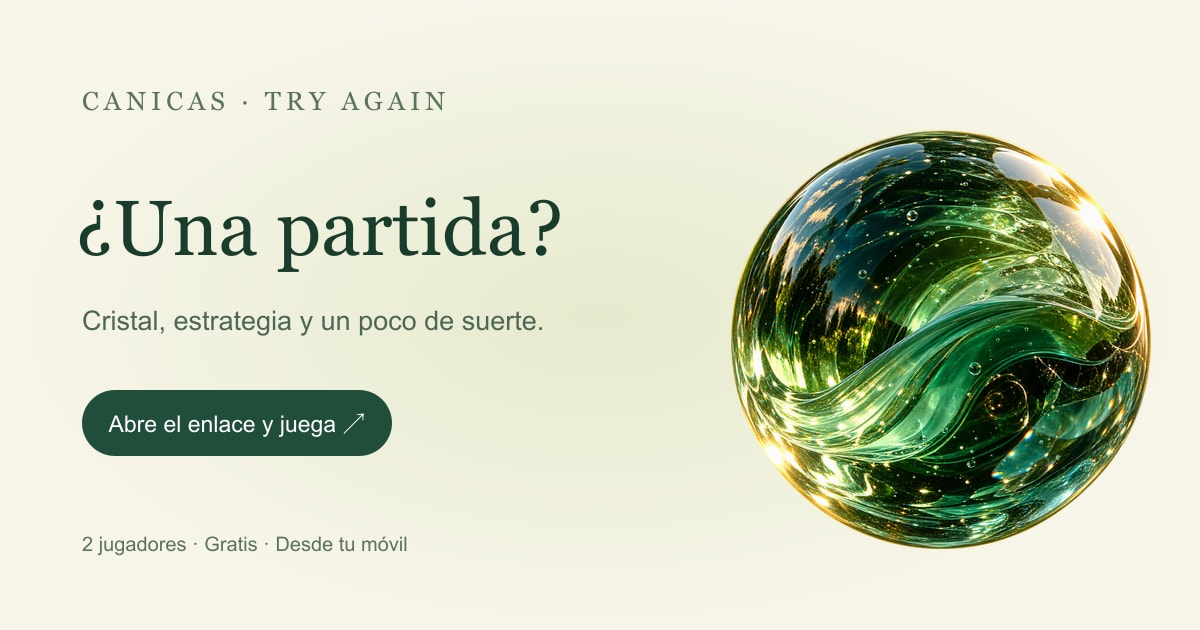
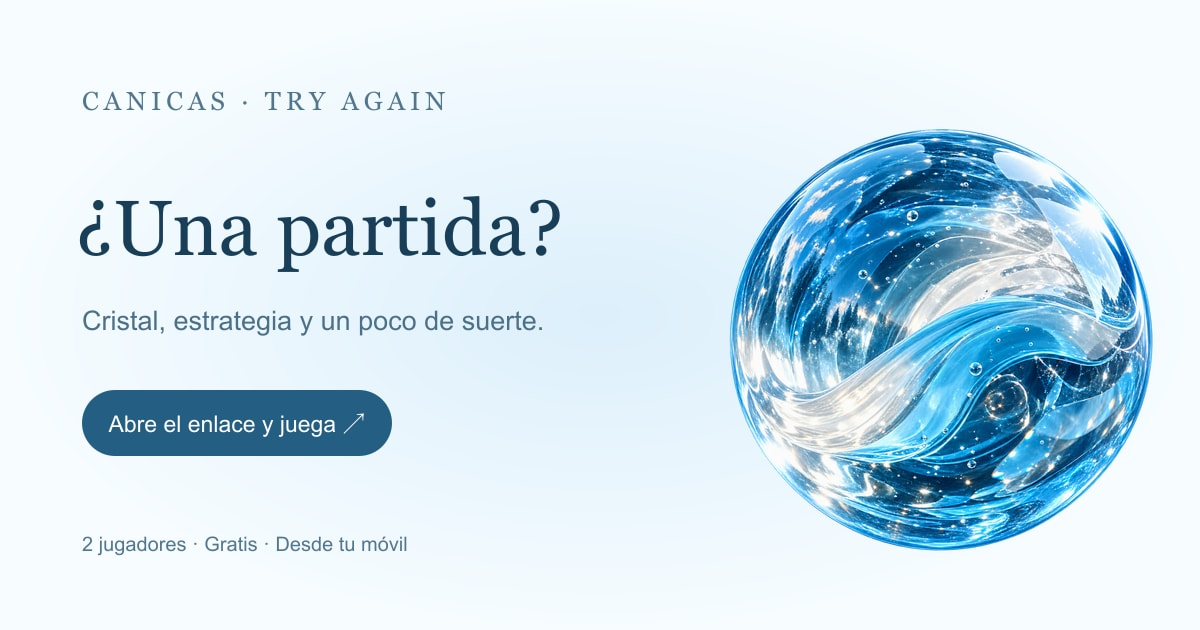
feat: unifica la canica general celeste y blanca de La Línea

diff --git a/src/features/game/components/BoardOverview.tsx b/src/features/game/components/BoardOverview.tsx
@@ -2,12 +2,14 @@
 
 import { useEffect, useRef } from 'react';
 import type { GameState } from '../types';
+import { useAppearance } from '@/features/appearance/AppearanceProvider';
 
 type Point={x:number;y:number};
 type Props={game:GameState;width:number;height:number;world:{width:number;height:number};point:(row:number,col:number)=>Point;onFocus:(point:Point)=>void;selection?:{rowIndex:number;startIndex:number;endIndex:number}|null;radius?:number};
 /** One small, static canvas replaces thousands of interactive marbles while fitting the table. */
 export function BoardOverview({game,width,height,world,point,onFocus,selection,radius=.33}:Props):React.ReactElement {
   const canvas=useRef<HTMLCanvasElement>(null);
+  const {season,theme}=useAppearance();
   const layout=useRef({scale:1,x:0,y:0});
   useEffect(()=>{
     const element=canvas.current;if(!element)return;
@@ -18,17 +20,18 @@ export function BoardOverview({game,width,height,world,point,onFocus,selection,r
     const scale=Math.min((width-24)/world.width,(height-44)/world.height);
     const x=(width-world.width*scale)/2,y=(height-24-world.height*scale)/2;
     layout.current={scale,x,y};
-    const colors=['#438766','#408ba5','#a58d55','#b6764b'];
+    const colors=season==='none'?['#73bfe5','#c4e7f4','#f0faff','#8bd0ee']:['#438766','#408ba5','#a58d55','#b6764b'];
     for(let row=0;row<game.rows.length;row++)for(let col=0;col<game.rows[row].length;col++) {
       const p=point(row,col),px=x+p.x*scale,py=y+p.y*scale,r=Math.max(.35,scale*radius);
       const selected=selection?.rowIndex===row&&col>=selection.startIndex&&col<=selection.endIndex;
       ctx.globalAlpha=game.rows[row][col]?1:.16;
       ctx.fillStyle=selected?'#2c9db7':colors[(row+col)%colors.length];
       ctx.beginPath();ctx.arc(px,py,r,0,Math.PI*2);ctx.fill();
+      if(season==='none'&&game.rows[row][col]&&r>1){ctx.strokeStyle=theme==='light'?'#347a9b99':'#def7ff88';ctx.lineWidth=.5;ctx.stroke();}
       if(game.rows[row][col]&&r>2){ctx.globalAlpha=.45;ctx.fillStyle='#fffce5';ctx.beginPath();ctx.arc(px-r*.25,py-r*.3,r*.3,0,Math.PI*2);ctx.fill();}
     }
     ctx.globalAlpha=1;
-  },[game.rows,width,height,world,point,selection,radius]);
+  },[game.rows,width,height,world,point,selection,radius,season,theme]);
   return <button type="button" className="board-overview" style={{height,width}} aria-label={`Vista general de ${game.numRows} filas. Toca una zona para acercar y elegir canicas.`} onClick={event=>{
     const rect=event.currentTarget.getBoundingClientRect(),{scale,x,y}=layout.current;
     onFocus(event.detail===0?{x:world.width/2,y:world.height/2}:{x:Math.max(0,Math.min(world.width,(event.clientX-rect.left-x)/scale)),y:Math.max(0,Math.min(world.height,(event.clientY-rect.top-y)/scale))});

diff --git a/src/app/glass.css b/src/app/glass.css
@@ -1,16 +1,13 @@
 /* Pre-rendered optical glass: identical paint cost on mobile, no live refraction shader. */
 :root{--glass-tint:transparent}
-html[data-season=halloween]{--glass-tint:#c18d59}
-html[data-season=summer]{--glass-tint:#61b7c2}
-html[data-season=christmas]{--glass-tint:#dce2d0}
-html[data-season=birthday]{--glass-tint:#c29cae}
+html[data-season=halloween]{--glass-image:var(--glass-event-image);--glass-tint:#c18d59}
+html[data-season=summer]{--glass-image:var(--glass-event-image);--glass-tint:#61b7c2}
+html[data-season=christmas]{--glass-image:var(--glass-event-image);--glass-tint:#dce2d0}
+html[data-season=birthday]{--glass-image:var(--glass-event-image);--glass-tint:#c29cae}
 .pocket-app .pocket-marble,.canicas-shell .preview-marble,.appearance-preview-orb{
   background-color:transparent;background-image:linear-gradient(var(--glass-tint),var(--glass-tint)),var(--glass-image);background-blend-mode:color,normal;background-size:100% 100%,107% 107%;background-position:center;background-repeat:no-repeat;
   box-shadow:inset 0 0 0 .6px #fff7,0 5px 8px #0006,0 8px 12px -7px #e5dba65c;
 }
-html[data-season=none] .marble-target:nth-child(3n+2) .pocket-marble{--glass-tint:#73b9c6}
-html[data-season=none] .marble-target:nth-child(5n+3) .pocket-marble{--glass-tint:#d5d4c4}
-html[data-season=none] .marble-target:nth-child(7n+4) .pocket-marble{--glass-tint:#c79e6d}
 .pocket-app .pocket-marble::before,.canicas-shell .preview-marble::before{inset:11% 12% 62% 55%;background:linear-gradient(140deg,#fff7,#fff0);opacity:.35}
 .pocket-app .orb-ribbon{opacity:.13;mix-blend-mode:screen}
 .pocket-app .marble-target.is-selected .pocket-marble,.canicas-shell .preview-marble.is-selected{

diff --git a/src/features/appearance/worlds.ts b/src/features/appearance/worlds.ts
@@ -25,7 +25,7 @@ export const WORLDS = {
     motifs: ["none", "none"], dice: "none", magic: [],
     light: ["#e5efe4", "#cadfce", "#a0c2af", "#789c80", "#a4c678", "#9c8467", "#c7ae80", "#786d60", "#fff0ba"],
     dark: ["#101e24", "#23383c", "#334f4c", "#3a5b48", "#809d59", "#443c32", "#7d7151", "#4c5148", "#d6e4ac"],
-    material: {"orb":["#f1fffa","#88bfc1","#244c6670","#132b3e","#79c6bc","#e3e9c2","#031a26","#7ab9cc26","#10281f"],"lightOrb":["#fff","#c4ddd0","#7fa496","#305d59","#8dc0a6","#ecf5d8","#2c615b","#326f5520","#10281f"],"die":["#d1dabd","#adc5a0","#354d39","#102519","#080c0a","#e7ee55","#c8e350","#51301d"],"ui":{"dark":["#08090b","#101411","#151c17","#e7ee55","#182008"],"light":["#f4f5ef","#fbfcf6","#e5eadf","#bfcc35","#182008"]}},
+    material: {"orb":["#fff","#83c9ed","#388fc0","#17445f","#d7f3ff","#fff","#10314b","#83d1f12b","#153d56"],"lightOrb":["#fff","#b4e2f7","#68b5dc","#28688d","#e5f8ff","#fff","#315f7b","#76bee524","#153d56"],"die":["#d1dabd","#adc5a0","#354d39","#102519","#080c0a","#e7ee55","#c8e350","#51301d"],"ui":{"dark":["#08090b","#101411","#151c17","#e7ee55","#182008"],"light":["#f4f5ef","#fbfcf6","#e5eadf","#bfcc35","#182008"]}},
   },
   halloween: {
     label: "Halloween", description: "Islas embrujadas, una mansión y niebla de medianoche.", caption: "Truco o trato", landscape: "haunted",

diff --git a/src/app/club.css b/src/app/club.css
@@ -504,7 +504,7 @@ body {
 .canicas-brand:focus-visible {outline:2px solid var(--app-ink);outline-offset:8px;border-radius:8px;}
 .canicas-brand-mark {position:relative;display:block;width:50px;height:52px;flex-shrink:0;}
 .canicas-brand-mark>img {position:absolute;top:0;left:0;width:46px;height:46px;filter:drop-shadow(0 4px 5px #0003);}
-.canicas-brand-satellite {position:absolute;right:0;bottom:0;width:21px;height:21px;background:var(--glass-image) center/contain no-repeat;filter:hue-rotate(50deg) drop-shadow(0 2px 2px #0003);}
+.canicas-brand-satellite {position:absolute;right:0;bottom:0;width:21px;height:21px;background:var(--glass-base-image) center/contain no-repeat;filter:drop-shadow(0 2px 2px #0003);}
 .canicas-shell .canicas-brand-wordmark {display:flex;flex-direction:column;align-items:flex-start;gap:3px;font-family:Archivo,sans-serif;font-size:31px;font-weight:800;line-height:.95;letter-spacing:-1.6px;text-transform:lowercase;}
 .canicas-shell .canicas-brand-signature {align-self:flex-end;font-family:Georgia,serif;font-size:13px;font-style:italic;font-weight:400;line-height:1.2;letter-spacing:.5px;color:var(--app-muted);}
 .canicas-shell .canicas-brand-tagline {padding-left:18px;margin-left:7px;font:10px/1.6 var(--club-mono);letter-spacing:.5px;color:var(--app-muted);}

diff --git a/src/app/appearance.css b/src/app/appearance.css
@@ -20,14 +20,14 @@
   --app-danger-bg: #33221e;
   --app-disabled: #202620;
   --app-disabled-ink: #969f90;
-  --orb-top: #f1fffa;
-  --orb-mid: #88bfc1;
-  --orb-body: #244c6670;
-  --orb-low: #132b3e;
-  --orb-edge: #79c6bc;
-  --orb-glint: #e3e9c2;
-  --orb-shadow: #031a26;
-  --orb-aura: #7ab9cc26;
+  --orb-top: #fff;
+  --orb-mid: #83c9ed;
+  --orb-body: #388fc0;
+  --orb-low: #17445f;
+  --orb-edge: #d7f3ff;
+  --orb-glint: #fff;
+  --orb-shadow: #10314b;
+  --orb-aura: #83d1f12b;
   --orb-ink: #10281f;
 }
 html[data-theme="light"] {
@@ -52,13 +52,13 @@ html[data-theme="light"] {
   --app-disabled: #dce3d5;
   --app-disabled-ink: #616f60;
   --orb-top: #fff;
-  --orb-mid: #c4ddd0;
-  --orb-body: #7fa496;
-  --orb-low: #305d59;
-  --orb-edge: #8dc0a6;
-  --orb-glint: #ecf5d8;
-  --orb-shadow: #2c615b;
-  --orb-aura: #326f5520;
+  --orb-mid: #b4e2f7;
+  --orb-body: #68b5dc;
+  --orb-low: #28688d;
+  --orb-edge: #e5f8ff;
+  --orb-glint: #fff;
+  --orb-shadow: #315f7b;
+  --orb-aura: #76bee524;
 }
 /* Automatic calendar skins only affect living glass. Player colors always retain meaning. */
 html[data-season="halloween"] {

diff --git a/src/features/brand/components/CanicasBrand.tsx b/src/features/brand/components/CanicasBrand.tsx
@@ -1,9 +1,10 @@
 import Image from 'next/image';
+import glass from '@/features/appearance/glassAssets.json';
 
 export function CanicasBrand({tagline=false}:{tagline?:boolean}):React.ReactElement{
  return <a href="#inicio" className="canicas-brand" aria-label="Canicas Try Again, inicio">
   <span className="canicas-brand-mark" aria-hidden="true">
-   <Image unoptimized src="/glass/crystal.aaf794a68863.webp" alt="" width={48} height={48}/>
+   <Image unoptimized src={glass.crystal} alt="" width={48} height={48}/>
    <span className="canicas-brand-satellite"/>
   </span>
   <span className="canicas-brand-wordmark">canicas<span className="canicas-brand-signature">try again.</span></span>

diff --git a/src/features/game/components/GameBoard.tsx b/src/features/game/components/GameBoard.tsx
@@ -923,10 +923,10 @@ function initializeScene(container: HTMLDivElement, THREE: any): SceneContext | 
   const raycaster = new THREE.Raycaster();
   const pointer = new THREE.Vector2(0, 0);
   const activeTexture = createMarbleTexture(THREE, {
-    base: '#f3a17e',
-    veins: '#ffdec5',
-    highlight: '#fff5e0',
-    shadow: '#713d35'
+    base: '#83c9ed',
+    veins: '#d7f3ff',
+    highlight: '#ffffff',
+    shadow: '#10314b'
   });
   const removedTexture = createMarbleTexture(THREE, {
     base: '#64748b',

diff --git a/scripts/test-glass-assets.ts b/scripts/test-glass-assets.ts
@@ -6,4 +6,4 @@ for(const url of Object.values(assets)){
   const body=readFileSync('public'+url);assert(body.length<16_384);assert.equal(body.toString('ascii',8,12),'WEBP');
   const hash=createHash('sha256').update(body).digest('hex').slice(0,12);assert(url.includes(hash));
 }
-console.log('Optical glass: one immutable WebP under 16 KB, reused with CSS color variants');
+console.log('Optical glass: immutable normal and seasonal WebP assets under 16 KB each, reused throughout the UI');

diff --git a/src/app/glass-assets.css b/src/app/glass-assets.css
@@ -1,1 +1,1 @@
-:root{--glass-image:url("/glass/crystal.aaf794a68863.webp")}
+:root{--glass-base-image:url("/glass/crystal.3946e22c00de.webp");--glass-event-image:url("/glass/crystal.aaf794a68863.webp");--glass-image:var(--glass-base-image)}

diff --git a/docs/ARQUITECTURA.md b/docs/ARQUITECTURA.md
@@ -34,3 +34,9 @@ La sincronización de las partidas conserva SSE con deltas, revisiones, rechazo 
 `src/backend/game/domain` define reglas, poderes y física. Los casos de uso validan cada acción y la infraestructura persiste en SQLite. Las rutas HTTP autentican al actor mediante cookies HttpOnly; un identificador enviado en JSON no concede acceso. El cliente se organiza por funcionalidades y aplica snapshots/deltas con revisiones para evitar retrocesos o dobles jugadas.
 
 La sesión de registro y el perfil privado recuperan el cumpleaños; la fecha local antigua no es una fuente de identidad. Solo se guarda MM-DD. La celebración utiliza el calendario civil de Madrid y nunca modifica las reglas ni las probabilidades del dado.
+
+## Cristal habitual y materiales de eventos
+
+La canica general usa celeste y blanco, inspirados en La Línea. `artwork/glass/marble-linea.png` genera el WebP habitual y los iconos de marca; `marble-source.png` conserva el material base de los eventos. El manifiesto `glassAssets.json` separa `crystal` y `eventCrystal`: logo y satélite usan siempre el habitual, mientras que tablero, tirada antigua y dado pueden adoptar el material estacional. La vista general y la exploración 3D comparten la paleta habitual. Las áreas de interacción y los colores que identifican a cada jugador no cambian.
+
+`npm run assets:glass` codifica los dos materiales (menos de 16 KB cada uno); `node scripts/generate-brand-assets.mjs` actualiza favicon, iconos instalables y vista previa para compartir. No hay procesamiento de imágenes durante la partida.

diff --git a/README.md b/README.md
@@ -1,12 +1,12 @@
 # Canicas Try Again
 
-**Deja la última canica a tu rival.** Un duelo de estrategia para dos, con canicas de cristal, un dado de ocho poderes y escenarios que acompañan las estaciones y tus celebraciones.
+**Deja la última canica a tu rival.** Un duelo de estrategia para dos, con canicas de cristal celeste y blanco inspiradas en La Línea, un dado de ocho poderes y escenarios que acompañan las estaciones y tus celebraciones.
 
 Repositorio oficial: **[webcvalejandropina-ui/canicastryagain](https://github.com/webcvalejandropina-ui/canicastryagain)**.
 
 Juega desde el móvil, la tableta o el ordenador. Invita a una persona por enlace o código, o practica contra el ordenador sin registrarte.
 
-![Partida en ordenador con el escenario de La Línea y Gibraltar](docs/images/partida-gibraltar.jpg)
+![Partida en ordenador con el escenario de La Línea y Gibraltar](docs/images/partida-linea.png)
 
 **[Ver cómo se juega en 59 segundos](docs/video/CANICAS_COMO_JUGAR_59s.mp4)** · [Guion y subtítulos](docs/video/guion/) · [Arquitectura](docs/ARQUITECTURA.md) · [Pruebas](docs/PRUEBAS.md)
 
